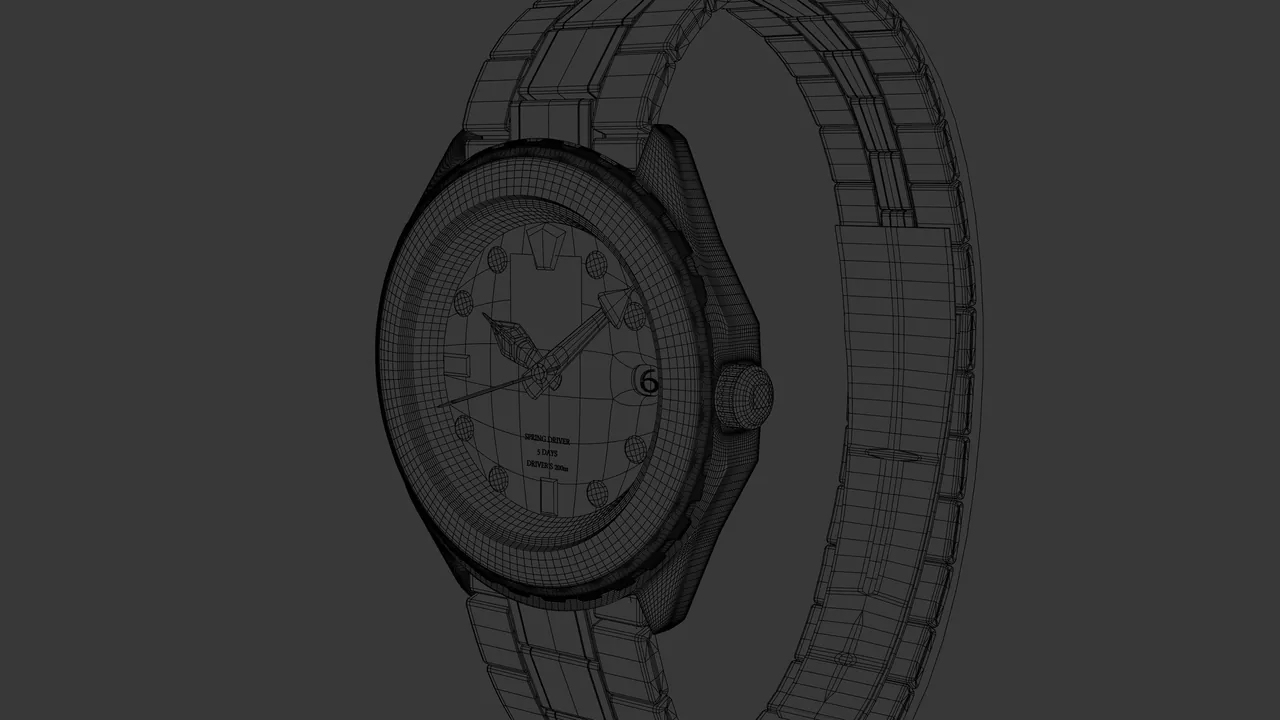
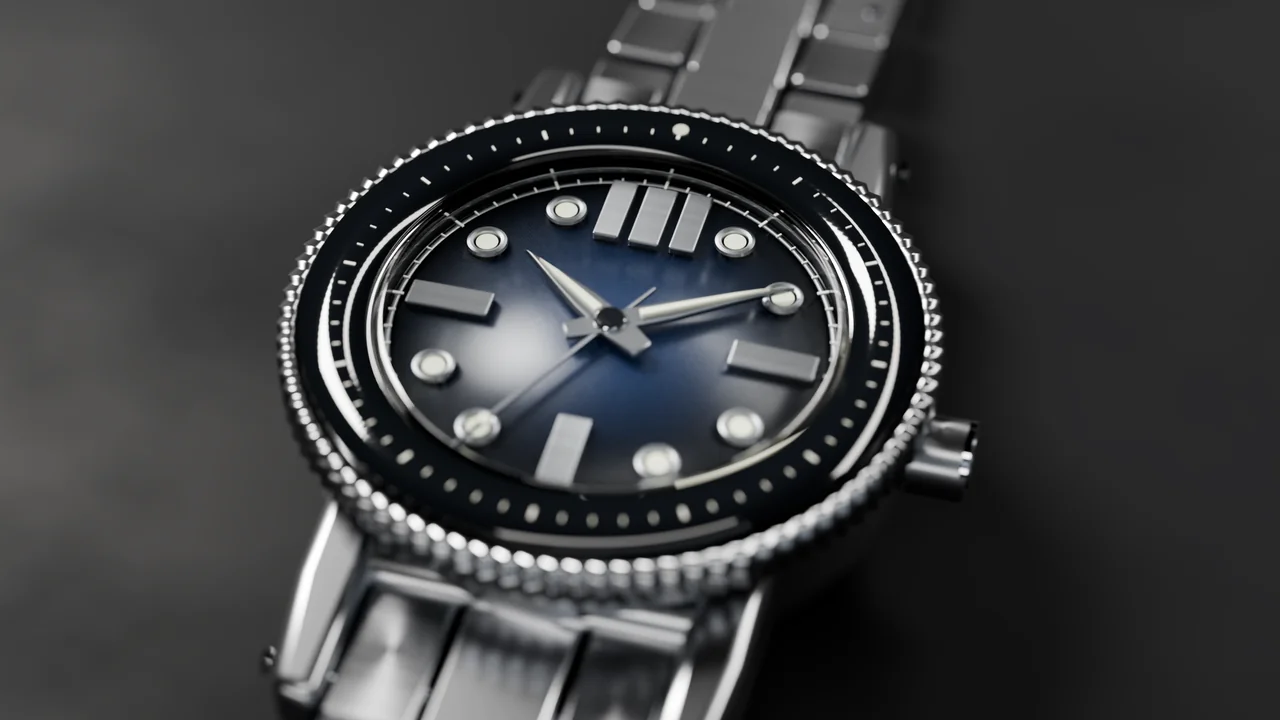
De-brand watch imagery and copy, new hero renders, unify Instagram handle

diff --git a/assets/js/lang.js b/assets/js/lang.js
@@ -1,4 +1,4 @@
-/* Language switch. Arabic is what the document ships; this swaps the text,
+/* Language switch. Arabic is what the document ships; this swaps the text,
    re-declares the language of every run it touches, and sets lang and dir on
    the root so the whole layout mirrors. Latin runs embedded in an Arabic line
    keep their own lang and stay in order. */
@@ -78,7 +78,7 @@
       "send3": "أي مجسم أو ملفّات CAD أو صور مرجعية متوفّرة.",
       "send4": "الوقت الذي تحتاجه.",
       "qrScan": "امسح للوصول إلى إنستغرام",
-      "qrAlt": "رمز QR يؤدي إلى instagram.com/ibn3atef",
+      "qrAlt": "رمز QR يؤدي إلى instagram.com/ibnateff",
       "notFoundLabel": "غير موجود",
       "notFoundTitle": "الصفحة التي طلبتها ليست هنا.",
       "notFoundLede": "قد تكون انتقلت، أو لم توجد أصلًا. الأعمال",
@@ -104,7 +104,7 @@
       "s.dive-watch.subject": "ساعة يد، لقطة قريبة وتفكيك",
       "s.dive-watch.blurb": "المعدن هو التمرين كله: التصنفير يبدو مسطّحًا، والتلميع يبدو داكنًا، وعلى الإطار أن يلتقط حافة واحدة دون أن يحترق.",
       "s.dive-watch.note": "أُبقيت ثلاث إعدادات إضاءة من المشهد نفسه ليُقرأ الطقم كتدريج لوني واحد. ويفكّ الفيلم علبة الساعة نفسها ويُعلّق الأجزاء في الهواء، وهي الطريقة الوحيدة لإظهار ما جرى نمذجته فعلًا.",
-      "s.dive-watch.credit": "يُصوّر هذا العمل ساعة غوص من Grand Seiko. دراسة غير مُكلَّف بها؛ لم تكلّف Grand Seiko بإعدادها، ولم تزوّدها، ولم تصادق عليها.",
+      "s.dive-watch.credit": "دراسة ساعة غوص فاخرة منزوعة العلامة التجارية. لا يوجد أي ارتباط بالعلامة.",
       "s.dive-watch.alt.0": "ساعة غوص من الفولاذ مفكَّكة، وإطارها وميناؤها وحركتها تطفو منفصلة على خلفية كحلية غامقة.",
       "s.dive-watch.alt.1": "لقطة قريبة لساعة غوص من الفولاذ على خلفية سوداء، والإطار يلتقط ضوء حافة حادًّا.",
       "s.dive-watch.alt.2": "ساعة غوص معلّقة على خلفية زرقاء غامقة، والسوار ينحني خارج الكادر.",
@@ -235,8 +235,8 @@
       "s.watch-macro.subject": "ساعة يد، لقطة قريبة وإضاءة",
       "s.watch-macro.blurb": "تمرين ثانٍ على ساعة، أُضيء ليُقرأ ملمس الميناء وتشطيب السوار في الوقت نفسه.",
       "s.watch-macro.note": "نفس علبة ساعة الغوص، وزوايا مختلفة على أرضية بيضاء، وتمريرة تدريج لوني أطول.",
-      "s.watch-macro.credit": "يُصوّر هذا العمل ساعة غوص من Grand Seiko. دراسة غير مُكلَّف بها؛ لم تكلّف Grand Seiko بإعدادها ولم تصادق عليها.",
-      "s.watch-macro.alt.0": "ساعة غوص من Grand Seiko على أرضية بيضاء، وملمس الميناء واضح عبر الإطار.",
+      "s.watch-macro.credit": "دراسة ساعة غوص فاخرة منزوعة العلامة التجارية. لا يوجد أي ارتباط بالعلامة.",
+      "s.watch-macro.alt.0": "ساعة غوص فاخرة منزوعة العلامة التجارية على خلفية داكنة، مع تفاصيل المينا.",
       "s.watch-macro.alt.1": "الساعة نفسها بمنظر جانبي، ووصلات السوار تتراكم خارج الإطار.",
       "s.pickup-truck.title": "Chevrolet Pickup",
       "s.pickup-truck.subject": "بيك آب، منظر خارجي",
@@ -316,7 +316,7 @@
       "cs.watch.oneAlt": "لقطة قريبة لساعة غوص على أرضية بيضاء، وملمس الميناء واضح.",
       "cs.watch.twoAlt": "الساعة نفسها بمنظر جانبي، ووصلات السوار تتراكم خارج الإطار.",
       "cs.watch.note": "نفس علبة ساعة الغوص، وزوايا مختلفة على أرضية بيضاء، وتمريرة تدريج لوني أطول.",
-      "cs.watch.credit": "يُصوّر هذا العمل ساعة غوص من Grand Seiko. دراسة غير مُكلَّف بها؛ لم تكلّف Grand Seiko بإعدادها ولم تصادق عليها.",
+      "cs.watch.credit": "دراسة ساعة غوص فاخرة منزوعة العلامة التجارية. لا يوجد أي ارتباط بالعلامة.",
       "cs.beef.name": "مشهد البرغر",
       "cs.beef.subject": "إعلان طعام · نمط المقاطع التشويقية",
       "cs.beef.body": "قطعة متحركة لا صورة ثابتة. المنطق نفسه لمنتج، لكن مونتاج على إيقاع إعلان تشويقي، ودُرِّج لونيًا بمظهر باهت ومحبَّب بالحبيبات حتى يبدو البرغر المصيّر كصورة التقطها أحدهم.",
@@ -408,7 +408,7 @@
       "send3": "Any existing model, CAD or reference photography.",
       "send4": "When you need it.",
       "qrScan": "Scan for Instagram",
-      "qrAlt": "QR code linking to instagram.com/ibn3atef",
+      "qrAlt": "QR code linking to instagram.com/ibnateff",
       "notFoundLabel": "Not found",
       "notFoundTitle": "The page you asked for is not here.",
       "notFoundLede": "It may have moved, or it never existed. The work is",
@@ -434,7 +434,7 @@
       "s.dive-watch.subject": "Wristwatch, macro and breakdown",
       "s.dive-watch.blurb": "Metal is the whole exercise: brushing reads flat, polishing reads dark, and the bezel has to catch one edge without blowing out.",
       "s.dive-watch.note": "Three lighting setups were kept from the same scene so the set reads as one grade. The film takes the same case apart and holds the parts in the air, which is the only way to show what was actually modelled.",
-      "s.dive-watch.credit": "Depicts a Grand Seiko diver. An unsolicited study — Grand Seiko has not commissioned, supplied or endorsed this render.",
+      "s.dive-watch.credit": "A de-branded luxury dive-watch study. No brand affiliation.",
       "s.dive-watch.alt.0": "A steel dive watch taken apart, its bezel, dial and movement floating separately against deep navy.",
       "s.dive-watch.alt.1": "Macro of a steel dive watch against black, the bezel catching a hard rim light.",
       "s.dive-watch.alt.2": "A dive watch suspended against a deep blue field, bracelet curving out of frame.",
@@ -565,8 +565,8 @@
       "s.watch-macro.subject": "Wristwatch, macro and lighting",
       "s.watch-macro.blurb": "A second watch exercise, lit to read the dial texture and the bracelet finish at once.",
       "s.watch-macro.note": "Same case as the dive watch, different set of angles on a white ground and one longer grade pass.",
-      "s.watch-macro.credit": "Depicts a Grand Seiko diver. Unsolicited — Grand Seiko has not commissioned or endorsed this render.",
-      "s.watch-macro.alt.0": "A Grand Seiko diver on a white ground, the dial texture reading across the frame.",
+      "s.watch-macro.credit": "A de-branded luxury dive-watch study. No brand affiliation.",
+      "s.watch-macro.alt.0": "A de-branded luxury dive watch on a dark ground, the dial texture reading across the frame.",
       "s.watch-macro.alt.1": "The same watch in side profile, the bracelet links stacking out of frame.",
       "s.pickup-truck.title": "Chevrolet Pickup",
       "s.pickup-truck.subject": "Pickup truck, exterior",
@@ -646,7 +646,7 @@
       "cs.watch.oneAlt": "Macro of a dive watch on a white ground, the dial texture reading clearly.",
       "cs.watch.twoAlt": "The same watch seen side-on, the bracelet links stacking out of frame.",
       "cs.watch.note": "Same case as the dive watch, different set of angles on a white ground and one longer grade pass.",
-      "cs.watch.credit": "Depicts a Grand Seiko diver. Unsolicited — Grand Seiko has not commissioned or endorsed this render.",
+      "cs.watch.credit": "A de-branded luxury dive-watch study. No brand affiliation.",
       "cs.beef.name": "Burger scene",
       "cs.beef.subject": "Food advertising · trailer styling",
       "cs.beef.body": "A moving piece rather than a still. The same product logic, cut to a trailer rhythm and graded flat and grainy so a rendered burger reads like a photograph somebody took.",

diff --git a/work.html b/work.html
@@ -34,7 +34,7 @@ r.setAttribute("dir",l==="ar"?"rtl":"ltr");})();</script>
 <meta name="twitter:description" content="دراسات في تصوير المنتجات للأبعاد الثلاثية: ساعات، أحذية، مستحضرات تجميل، زجاج وعتاد حاسوب.">
 <meta name="twitter:image" content="https://3bdull4h2008.github.io/assets/img/og.png">
 <meta name="twitter:image:alt" content="ساعة غوص من الفولاذ مفكّكة على خلفية داكنة.">
-<script type="application/ld+json">{"@context": "https://schema.org", "@type": "Person", "name": "Abdullah Atef Alrawashdeh", "alternateName": "عبدالله عاطف الرواشدة", "jobTitle": "طالب تصوير منتجات بالأبعاد الثلاثية", "description": "دراسات في تصوير المنتجات للأبعاد الثلاثية: ساعات، أحذية، مستحضرات تجميل، زجاج وعتاد حاسوب.", "url": "https://3bdull4h2008.github.io/", "image": "https://3bdull4h2008.github.io/assets/img/og.png", "address": {"@type": "PostalAddress", "addressLocality": "Amman", "addressCountry": "JO"}, "knowsAbout": ["Blender", "Cycles", "تصوير المنتجات بالأبعاد الثلاثية"], "sameAs": ["https://instagram.com/ibn3atef"]}</script>
+<script type="application/ld+json">{"@context": "https://schema.org", "@type": "Person", "name": "Abdullah Atef Alrawashdeh", "alternateName": "عبدالله عاطف الرواشدة", "jobTitle": "طالب تصوير منتجات بالأبعاد الثلاثية", "description": "دراسات في تصوير المنتجات للأبعاد الثلاثية: ساعات، أحذية، مستحضرات تجميل، زجاج وعتاد حاسوب.", "url": "https://3bdull4h2008.github.io/", "image": "https://3bdull4h2008.github.io/assets/img/og.png", "address": {"@type": "PostalAddress", "addressLocality": "Amman", "addressCountry": "JO"}, "knowsAbout": ["Blender", "Cycles", "تصوير المنتجات بالأبعاد الثلاثية"], "sameAs": ["https://instagram.com/ibnateff"]}</script>
 <script type="application/ld+json">{"@context":"https://schema.org","@type":"BreadcrumbList","itemListElement":[{"@type":"ListItem","position":1,"name":"Home","item":"https://3bdull4h2008.github.io/"},{"@type":"ListItem","position":2,"name":"Work","item":"https://3bdull4h2008.github.io/work.html"}]}</script>
 <script src="assets/js/theme.js"></script>
 <script src="assets/js/media.js" defer></script>
@@ -120,7 +120,7 @@ r.setAttribute("dir",l==="ar"?"rtl":"ltr");})();</script>
     </figure>
       </div>
       <p class="study__note"><span class="label" lang="ar" data-i18n="notesLabel">ملاحظات</span> <span lang="ar" data-i18n="s.dive-watch.note">أُبقيت ثلاث إعدادات إضاءة من المشهد نفسه ليُقرأ الطقم كتدريج لوني واحد. ويفكّ الفيلم علبة الساعة نفسها ويُعلّق الأجزاء في الهواء، وهي الطريقة الوحيدة لإظهار ما جرى نمذجته فعلًا.</span></p>
-      <p class="study__credit" lang="ar" data-i18n="s.dive-watch.credit">يُصوّر هذا العمل ساعة غوص من Grand Seiko. دراسة غير مُكلَّف بها؛ لم تكلّف Grand Seiko بإعدادها، ولم تزوّدها، ولم تصادق عليها.</p>
+      <p class="study__credit" lang="ar" data-i18n="s.dive-watch.credit">دراسة ساعة غوص فاخرة منزوعة العلامة التجارية. لا يوجد أي ارتباط بالعلامة.</p>
     </article>
     <article class="study" id="skincare-jar" data-reveal style="--reveal-i:2">
       <header class="study__head">
@@ -454,7 +454,7 @@ r.setAttribute("dir",l==="ar"?"rtl":"ltr");})();</script>
       </header>
       <div class="study__lead">
       <figure class="plate " style="--ph:#8D8E8F">
-      <img src="assets/img/watch-macro-00-1280.jpg" srcset="assets/img/watch-macro-00-640.webp 640w, assets/img/watch-macro-00-1280.webp 1280w, assets/img/watch-macro-00-1920.webp 1920w" sizes="(min-width: 1100px) 68vw, 92vw" alt="ساعة غوص من Grand Seiko على أرضية بيضاء، وملمس الميناء واضح عبر الإطار." width="3840" height="2160" decoding="async" data-i18n-alt="s.watch-macro.alt.0" loading="lazy">
+      <img src="assets/img/watch-macro-00-1280.jpg" srcset="assets/img/watch-macro-00-640.webp 640w, assets/img/watch-macro-00-1280.webp 1280w, assets/img/watch-macro-00-1920.webp 1920w" sizes="(min-width: 1100px) 68vw, 92vw" alt="ساعة غوص فاخرة منزوعة العلامة التجارية على خلفية داكنة، مع تفاصيل المينا." width="3840" height="2160" decoding="async" data-i18n-alt="s.watch-macro.alt.0" loading="lazy">
     </figure>
     </div>
       <p class="lede" lang="ar" data-i18n="s.watch-macro.blurb">تمرين ثانٍ على ساعة، أُضيء ليُقرأ ملمس الميناء وتشطيب السوار في الوقت نفسه.</p>
@@ -464,7 +464,7 @@ r.setAttribute("dir",l==="ar"?"rtl":"ltr");})();</script>
     </figure>
       </div>
       <p class="study__note"><span class="label" lang="ar" data-i18n="notesLabel">ملاحظات</span> <span lang="ar" data-i18n="s.watch-macro.note">نفس علبة ساعة الغوص، وزوايا مختلفة على أرضية بيضاء، وتمريرة تدريج لوني أطول.</span></p>
-      <p class="study__credit" lang="ar" data-i18n="s.watch-macro.credit">يُصوّر هذا العمل ساعة غوص من Grand Seiko. دراسة غير مُكلَّف بها؛ لم تكلّف Grand Seiko بإعدادها ولم تصادق عليها.</p>
+      <p class="study__credit" lang="ar" data-i18n="s.watch-macro.credit">دراسة ساعة غوص فاخرة منزوعة العلامة التجارية. لا يوجد أي ارتباط بالعلامة.</p>
     </article>
     <article class="study" id="pickup-truck" data-reveal style="--reveal-i:2">
       <header class="study__head">
@@ -599,7 +599,7 @@ r.setAttribute("dir",l==="ar"?"rtl":"ltr");})();</script>
     <h2 id="cta-h" lang="ar" data-i18n="ctaTitle">متاح للعمل في الاستوديو. متاح للعمولات.</h2>
     <div class="section--cta__row">
       <a class="btn" href="contact.html" lang="ar" data-i18n="ctaButton">ابدأ محادثة</a>
-      <a class="link" href="https://instagram.com/ibn3atef" rel="me noopener" lang="en">Instagram @ibn3atef</a>
+      <a class="link" href="https://instagram.com/ibnateff" rel="me noopener" lang="en">Instagram @ibnateff</a>
     </div>
   </section>
 </main>

diff --git a/index.html b/index.html
@@ -34,7 +34,7 @@ r.setAttribute("dir",l==="ar"?"rtl":"ltr");})();</script>
 <meta name="twitter:description" content="دراسات في تصوير المنتجات للأبعاد الثلاثية: الإضاءة والخامات والتكوين، مُصيَّرة في Blender وCycles.">
 <meta name="twitter:image" content="https://3bdull4h2008.github.io/assets/img/og.png">
 <meta name="twitter:image:alt" content="ساعة غوص من الفولاذ مفكّكة على خلفية داكنة.">
-<script type="application/ld+json">{"@context": "https://schema.org", "@type": "Person", "name": "Abdullah Atef Alrawashdeh", "alternateName": "عبدالله عاطف الرواشدة", "jobTitle": "طالب تصوير منتجات بالأبعاد الثلاثية", "description": "دراسات في تصوير المنتجات للأبعاد الثلاثية: الإضاءة والخامات والتكوين، مُصيَّرة في Blender وCycles.", "url": "https://3bdull4h2008.github.io/", "image": "https://3bdull4h2008.github.io/assets/img/og.png", "address": {"@type": "PostalAddress", "addressLocality": "Amman", "addressCountry": "JO"}, "knowsAbout": ["Blender", "Cycles", "تصوير المنتجات بالأبعاد الثلاثية"], "sameAs": ["https://instagram.com/ibn3atef"]}</script>
+<script type="application/ld+json">{"@context": "https://schema.org", "@type": "Person", "name": "Abdullah Atef Alrawashdeh", "alternateName": "عبدالله عاطف الرواشدة", "jobTitle": "طالب تصوير منتجات بالأبعاد الثلاثية", "description": "دراسات في تصوير المنتجات للأبعاد الثلاثية: الإضاءة والخامات والتكوين، مُصيَّرة في Blender وCycles.", "url": "https://3bdull4h2008.github.io/", "image": "https://3bdull4h2008.github.io/assets/img/og.png", "address": {"@type": "PostalAddress", "addressLocality": "Amman", "addressCountry": "JO"}, "knowsAbout": ["Blender", "Cycles", "تصوير المنتجات بالأبعاد الثلاثية"], "sameAs": ["https://instagram.com/ibnateff"]}</script>
 <script src="assets/js/theme.js"></script>
 <script src="assets/js/media.js" defer></script>
 <script src="assets/js/motion.js" defer></script>
@@ -331,7 +331,7 @@ r.setAttribute("dir",l==="ar"?"rtl":"ltr");})();</script>
 
         <a class="card__link" href="work.html#watch-macro">
           <figure class="plate " style="--ph:#8D8E8F">
-      <img src="assets/img/watch-macro-00-1280.jpg" srcset="assets/img/watch-macro-00-640.webp 640w, assets/img/watch-macro-00-1280.webp 1280w, assets/img/watch-macro-00-1920.webp 1920w" sizes="(min-width: 1100px) 30vw, (min-width: 700px) 45vw, 92vw" alt="ساعة غوص من Grand Seiko على أرضية بيضاء، وملمس الميناء واضح عبر الإطار." width="3840" height="2160" decoding="async" data-i18n-alt="s.watch-macro.alt.0" loading="lazy">
+      <img src="assets/img/watch-macro-00-1280.jpg" srcset="assets/img/watch-macro-00-640.webp 640w, assets/img/watch-macro-00-1280.webp 1280w, assets/img/watch-macro-00-1920.webp 1920w" sizes="(min-width: 1100px) 30vw, (min-width: 700px) 45vw, 92vw" alt="ساعة غوص فاخرة منزوعة العلامة التجارية على خلفية داكنة، مع تفاصيل المينا." width="3840" height="2160" decoding="async" data-i18n-alt="s.watch-macro.alt.0" loading="lazy">
     </figure>
           <div class="card__body">
             <p class="label" lang="ar" data-i18n="s.watch-macro.title">دراسة ساعة</p>
@@ -439,7 +439,7 @@ r.setAttribute("dir",l==="ar"?"rtl":"ltr");})();</script>
     <h2 id="cta-h" lang="ar" data-i18n="ctaTitle">متاح للعمل في الاستوديو. متاح للعمولات.</h2>
     <div class="section--cta__row">
       <a class="btn" href="contact.html" lang="ar" data-i18n="ctaButton">ابدأ محادثة</a>
-      <a class="link" href="https://instagram.com/ibn3atef" rel="me noopener" lang="en">Instagram @ibn3atef</a>
+      <a class="link" href="https://instagram.com/ibnateff" rel="me noopener" lang="en">Instagram @ibnateff</a>
     </div>
   </section>
 </main>

diff --git a/contact.html b/contact.html
@@ -34,7 +34,7 @@ r.setAttribute("dir",l==="ar"?"rtl":"ltr");})();</script>
 <meta name="twitter:description" content="تواصل مع عبدالله عاطف الرواشدة لتنفيذ أعمال تصوير منتجات بالأبعاد الثلاثية، أو للحديث عن العمل في استوديو.">
 <meta name="twitter:image" content="https://3bdull4h2008.github.io/assets/img/og.png">
 <meta name="twitter:image:alt" content="ساعة غوص من الفولاذ مفكّكة على خلفية داكنة.">
-<script type="application/ld+json">{"@context": "https://schema.org", "@type": "Person", "name": "Abdullah Atef Alrawashdeh", "alternateName": "عبدالله عاطف الرواشدة", "jobTitle": "طالب تصوير منتجات بالأبعاد الثلاثية", "description": "تواصل مع عبدالله عاطف الرواشدة لتنفيذ أعمال تصوير منتجات بالأبعاد الثلاثية، أو للحديث عن العمل في استوديو.", "url": "https://3bdull4h2008.github.io/", "image": "https://3bdull4h2008.github.io/assets/img/og.png", "address": {"@type": "PostalAddress", "addressLocality": "Amman", "addressCountry": "JO"}, "knowsAbout": ["Blender", "Cycles", "تصوير المنتجات بالأبعاد الثلاثية"], "sameAs": ["https://instagram.com/ibn3atef"]}</script>
+<script type="application/ld+json">{"@context": "https://schema.org", "@type": "Person", "name": "Abdullah Atef Alrawashdeh", "alternateName": "عبدالله عاطف الرواشدة", "jobTitle": "طالب تصوير منتجات بالأبعاد الثلاثية", "description": "تواصل مع عبدالله عاطف الرواشدة لتنفيذ أعمال تصوير منتجات بالأبعاد الثلاثية، أو للحديث عن العمل في استوديو.", "url": "https://3bdull4h2008.github.io/", "image": "https://3bdull4h2008.github.io/assets/img/og.png", "address": {"@type": "PostalAddress", "addressLocality": "Amman", "addressCountry": "JO"}, "knowsAbout": ["Blender", "Cycles", "تصوير المنتجات بالأبعاد الثلاثية"], "sameAs": ["https://instagram.com/ibnateff"]}</script>
 <script src="assets/js/theme.js"></script>
 <script src="assets/js/media.js" defer></script>
 <script src="assets/js/motion.js" defer></script>
@@ -87,7 +87,7 @@ r.setAttribute("dir",l==="ar"?"rtl":"ltr");})();</script>
         <caption class="label" lang="ar" data-i18n="factsDirect">مباشر</caption>
         <tbody>
           <tr><th scope="row" lang="ar" data-i18n="factInstagram">إنستغرام</th>
-            <td><a href="https://instagram.com/ibn3atef" rel="me noopener" lang="en" dir="ltr">@ibn3atef</a></td></tr>
+            <td><a href="https://instagram.com/ibnateff" rel="me noopener" lang="en" dir="ltr">@ibnateff</a></td></tr>
           <tr><th scope="row" lang="ar" data-i18n="factEmail">البريد الإلكتروني</th>
             <td><a href="mailto:abdullaharawashdeh@gmail.com" lang="en" dir="ltr">abdullaharawashdeh@gmail.com</a></td></tr>
           <tr><th scope="row" lang="ar" data-i18n="factPhone">الهاتف</th>
@@ -109,7 +109,7 @@ r.setAttribute("dir",l==="ar"?"rtl":"ltr");})();</script>
     <div>
       <div class="qr">
         <img src="assets/img/qr-instagram.svg"
-             alt="رمز QR يؤدي إلى instagram.com/ibn3atef" data-i18n-alt="qrAlt"
+             alt="رمز QR يؤدي إلى instagram.com/ibnateff" data-i18n-alt="qrAlt"
              width="168" height="168" loading="lazy" decoding="async">
         <p class="label" lang="ar" data-i18n="qrScan">امسح للوصول إلى إنستغرام</p>
       </div>

diff --git a/about.html b/about.html
@@ -34,7 +34,7 @@ r.setAttribute("dir",l==="ar"?"rtl":"ltr");})();</script>
 <meta name="twitter:description" content="عبدالله عاطف الرواشدة طالب تصوير منتجات بالأبعاد الثلاثية في عمّان، الأردن، يعمل في Blender وCycles.">
 <meta name="twitter:image" content="https://3bdull4h2008.github.io/assets/img/og.png">
 <meta name="twitter:image:alt" content="ساعة غوص من الفولاذ مفكّكة على خلفية داكنة.">
-<script type="application/ld+json">{"@context": "https://schema.org", "@type": "Person", "name": "Abdullah Atef Alrawashdeh", "alternateName": "عبدالله عاطف الرواشدة", "jobTitle": "طالب تصوير منتجات بالأبعاد الثلاثية", "description": "عبدالله عاطف الرواشدة طالب تصوير منتجات بالأبعاد الثلاثية في عمّان، الأردن، يعمل في Blender وCycles.", "url": "https://3bdull4h2008.github.io/", "image": "https://3bdull4h2008.github.io/assets/img/og.png", "address": {"@type": "PostalAddress", "addressLocality": "Amman", "addressCountry": "JO"}, "knowsAbout": ["Blender", "Cycles", "تصوير المنتجات بالأبعاد الثلاثية"], "sameAs": ["https://instagram.com/ibn3atef"]}</script>
+<script type="application/ld+json">{"@context": "https://schema.org", "@type": "Person", "name": "Abdullah Atef Alrawashdeh", "alternateName": "عبدالله عاطف الرواشدة", "jobTitle": "طالب تصوير منتجات بالأبعاد الثلاثية", "description": "عبدالله عاطف الرواشدة طالب تصوير منتجات بالأبعاد الثلاثية في عمّان، الأردن، يعمل في Blender وCycles.", "url": "https://3bdull4h2008.github.io/", "image": "https://3bdull4h2008.github.io/assets/img/og.png", "address": {"@type": "PostalAddress", "addressLocality": "Amman", "addressCountry": "JO"}, "knowsAbout": ["Blender", "Cycles", "تصوير المنتجات بالأبعاد الثلاثية"], "sameAs": ["https://instagram.com/ibnateff"]}</script>
 <script src="assets/js/theme.js"></script>
 <script src="assets/js/media.js" defer></script>
 <script src="assets/js/motion.js" defer></script>

diff --git a/404.html b/404.html
@@ -34,7 +34,7 @@ r.setAttribute("dir",l==="ar"?"rtl":"ltr");})();</script>
 <meta name="twitter:description" content="هذه الصفحة غير موجودة.">
 <meta name="twitter:image" content="https://3bdull4h2008.github.io/assets/img/og.png">
 <meta name="twitter:image:alt" content="ساعة غوص من الفولاذ مفكّكة على خلفية داكنة.">
-<script type="application/ld+json">{"@context": "https://schema.org", "@type": "Person", "name": "Abdullah Atef Alrawashdeh", "alternateName": "عبدالله عاطف الرواشدة", "jobTitle": "طالب تصوير منتجات بالأبعاد الثلاثية", "description": "هذه الصفحة غير موجودة.", "url": "https://3bdull4h2008.github.io/", "image": "https://3bdull4h2008.github.io/assets/img/og.png", "address": {"@type": "PostalAddress", "addressLocality": "Amman", "addressCountry": "JO"}, "knowsAbout": ["Blender", "Cycles", "تصوير المنتجات بالأبعاد الثلاثية"], "sameAs": ["https://instagram.com/ibn3atef"]}</script>
+<script type="application/ld+json">{"@context": "https://schema.org", "@type": "Person", "name": "Abdullah Atef Alrawashdeh", "alternateName": "عبدالله عاطف الرواشدة", "jobTitle": "طالب تصوير منتجات بالأبعاد الثلاثية", "description": "هذه الصفحة غير موجودة.", "url": "https://3bdull4h2008.github.io/", "image": "https://3bdull4h2008.github.io/assets/img/og.png", "address": {"@type": "PostalAddress", "addressLocality": "Amman", "addressCountry": "JO"}, "knowsAbout": ["Blender", "Cycles", "تصوير المنتجات بالأبعاد الثلاثية"], "sameAs": ["https://instagram.com/ibnateff"]}</script>
 <script src="assets/js/theme.js"></script>
 <script src="assets/js/media.js" defer></script>
 <script src="assets/js/motion.js" defer></script>

diff --git a/work-with-me.html b/work-with-me.html
@@ -1,4 +1,4 @@
-<!doctype html>
+<!doctype html>
 <html lang="en" dir="ltr" data-lang="en" data-page="work-with-me" data-default-lang="en">
 <head>
 <meta charset="utf-8">
@@ -348,7 +348,7 @@ r.setAttribute("dir",l==="ar"?"rtl":"ltr");})();</script>
           <p class="label" data-i18n="wwm.aside.direct">Direct</p>
           <p><a class="text-link" href="mailto:abdullaharawashdeh@gmail.com">abdullaharawashdeh@gmail.com</a></p>
           <p><a class="text-link" href="tel:+962778402270" lang="en" dir="ltr">+962&nbsp;77&nbsp;840&nbsp;2270</a></p>
-          <p><a class="text-link" href="https://instagram.com/ibn3atef" rel="me noopener" lang="en">@ibn3atef</a></p>
+          <p><a class="text-link" href="https://instagram.com/ibnateff" rel="me noopener" lang="en">@ibnateff</a></p>
           <p class="micro" data-i18n="wwm.aside.responseV">Within one business day</p>
         </div>
         <p class="micro" style="margin-top:24px" data-i18n="wwm.aside.freeBody">One product, one angle, 1200px, watermarked, for evaluation. One per brand. It does not include source files or a full set.</p>
@@ -462,7 +462,7 @@ r.setAttribute("dir",l==="ar"?"rtl":"ltr");})();</script>
         <ul class="foot-list">
           <li><a href="mailto:abdullaharawashdeh@gmail.com">abdullaharawashdeh@gmail.com</a></li>
           <li><a href="tel:+962778402270" lang="en" dir="ltr">+962&nbsp;77&nbsp;840&nbsp;2270</a></li>
-          <li><a href="https://instagram.com/ibn3atef" rel="me noopener" lang="en">@ibn3atef</a></li>
+          <li><a href="https://instagram.com/ibnateff" rel="me noopener" lang="en">@ibnateff</a></li>
         </ul>
       </div>
       <div>

diff --git a/case-studies.html b/case-studies.html
@@ -166,7 +166,7 @@ r.setAttribute("dir",l==="ar"?"rtl":"ltr");})();</script>
       </figure>
     </div>
     <p class="study__note"><span class="label" data-i18n="cs.notes">Notes</span> <span data-i18n="cs.watch.note">Same case as the dive watch, different set of angles on a white ground and one longer grade pass.</span></p>
-    <p class="study__credit" data-i18n="cs.watch.credit">Depicts a Grand Seiko diver. Unsolicited — Grand Seiko has not commissioned or endorsed this render.</p>
+    <p class="study__credit" data-i18n="cs.watch.credit">A de-branded luxury dive-watch study. No brand affiliation.</p>
     <p><a class="text-link" href="work.html#watch-macro" data-i18n="cs.full">Read the full study on the work page</a></p>
   </article>
 

diff --git a/services.html b/services.html
@@ -1,4 +1,4 @@
-<!doctype html>
+<!doctype html>
 <html lang="en" dir="ltr" data-lang="en" data-page="services" data-default-lang="en">
 <head>
 <meta charset="utf-8">
@@ -371,7 +371,7 @@ r.setAttribute("dir",l==="ar"?"rtl":"ltr");})();</script>
         <ul class="foot-list">
           <li><a href="mailto:abdullaharawashdeh@gmail.com">abdullaharawashdeh@gmail.com</a></li>
           <li><a href="tel:+962778402270" lang="en" dir="ltr">+962&nbsp;77&nbsp;840&nbsp;2270</a></li>
-          <li><a href="https://instagram.com/ibn3atef" rel="me noopener" lang="en">@ibn3atef</a></li>
+          <li><a href="https://instagram.com/ibnateff" rel="me noopener" lang="en">@ibnateff</a></li>
         </ul>
       </div>
       <div>
